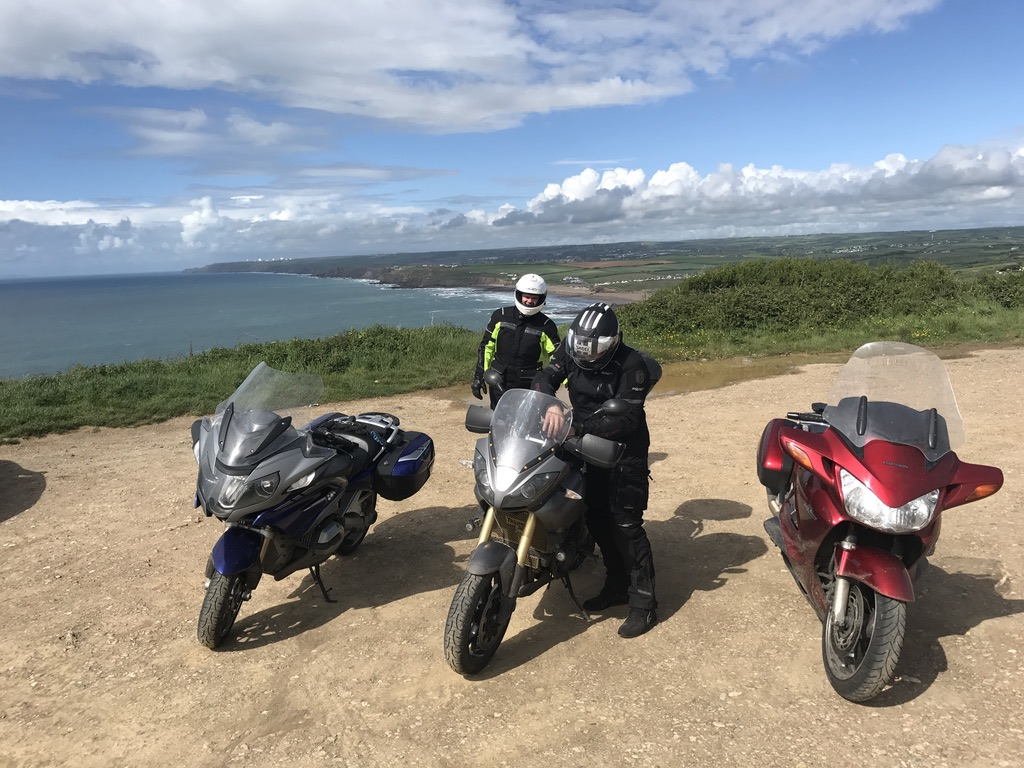
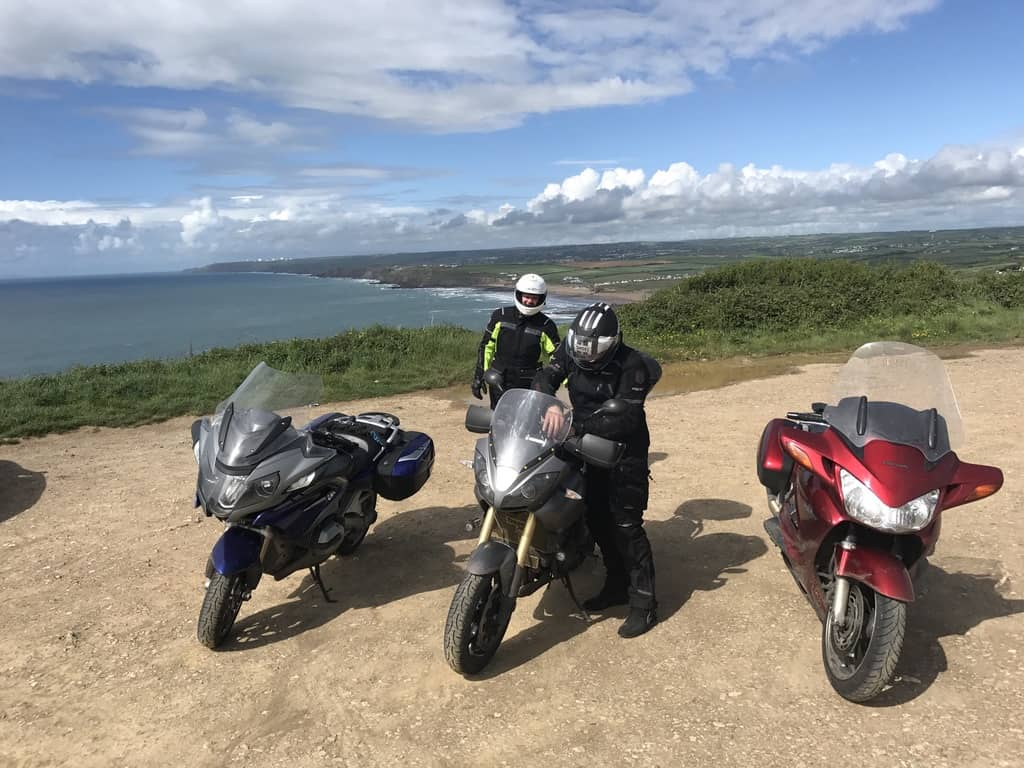
Responsive images ;)

diff --git a/the-beautiful-way-round/index.html b/the-beautiful-way-round/index.html
@@ -22,7 +22,17 @@ hide-global-nav: true
   {% assign tripId = 'bwr-' | append: trip.slug -%}
   <div class="col">
     <div class="card h-100">
-      <img src="/assets/images/bwr-trips/{{ tripId }}.jpg" class="card-img-top img-fluid" alt="{{ trip.title }} - {{ trip.description }}">
+      <img src="/assets/images/bwr-trips/{{ tripId }}.jpg" 
+           srcset="/assets/images/bwr-trips/{{ tripId }}-320w.jpg 320w,
+                   /assets/images/bwr-trips/{{ tripId }}-640w.jpg 640w,
+                   /assets/images/bwr-trips/{{ tripId }}-800w.jpg 800w,
+                   /assets/images/bwr-trips/{{ tripId }}.jpg 1024w"
+           sizes="(min-width: 768px) 50vw,
+                  (min-width: 992px) 33vw,
+                  (min-width: 1200px) 25vw,
+                  100vw"
+           class="card-img-top img-fluid" 
+           alt="{{ trip.title }} - {{ trip.description }}">
       <div class="card-body">
         <h5 class="card-title"><a href="{{ trip.url }}">{{ trip.description }}</a></h5>
       </div>
